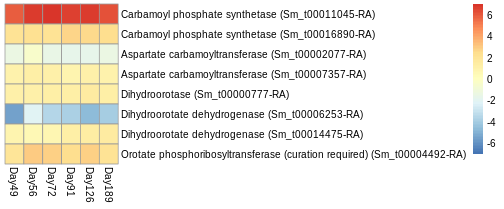
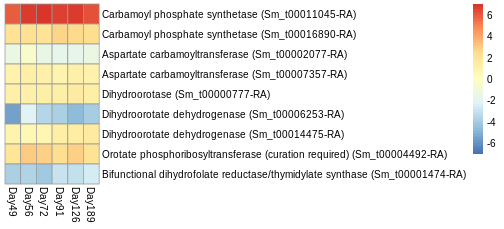
Update pyrimidine synthesis heatmaps

diff --git a/10_FinalResults/README.md b/10_FinalResults/README.md
@@ -67,12 +67,19 @@ Parts of the cycle are upregulated at all times, some experience an uptick, othe
 | ![R05_Urea_Cycle](../08_GenesToLookFor/GeneChecks/UreaCycle/UreaCycle.R05.lfc0.png) | ![GF04_Urea_Cycle](../08_GenesToLookFor/GeneChecks/UreaCycle/UreaCycle.GF04.lfc0.png) |
 
 ### Pyrimidine synthesis
-**Relevance:** Upregulation of carbamoyl phosphate synthetase (as seen above) may result in increased carbamoyl phosphate, which is upstream of pyrimidine synthesis
+**Relevance**: Upregulation of carbamoyl phosphate synthetase (as seen above) may result in increased carbamoyl phosphate, which is upstream of pyrimidine synthesis
 * Is the rest of the pathway upregulated?
+
+Some genes modestly upregulated, particularly in GF04
+* Bifunctional dihydrofolate reductase/thymidylate synthase (Sm_t00001474-RA) downregulated,
+  implying that this is primarily for production of RNA, not DNA?
 
 | R05 | GF04 |
 |-----|------|
 | ![R05_PyrimidineSynth_WIP](../08_GenesToLookFor/GeneChecks/PyrimidineSynthesis/PyrimidineSynthesis.R05.lfc0.png) | ![GF04_PyrimidineSynth_WIP](../08_GenesToLookFor/GeneChecks/PyrimidineSynthesis/PyrimidineSynthesis.GF04.lfc0.png) |
+
+### Purine synthesis
+**Relevance**: As pyrimidine synthesis may be modestly upregulated, what about purine synthesis?
 
 
 
